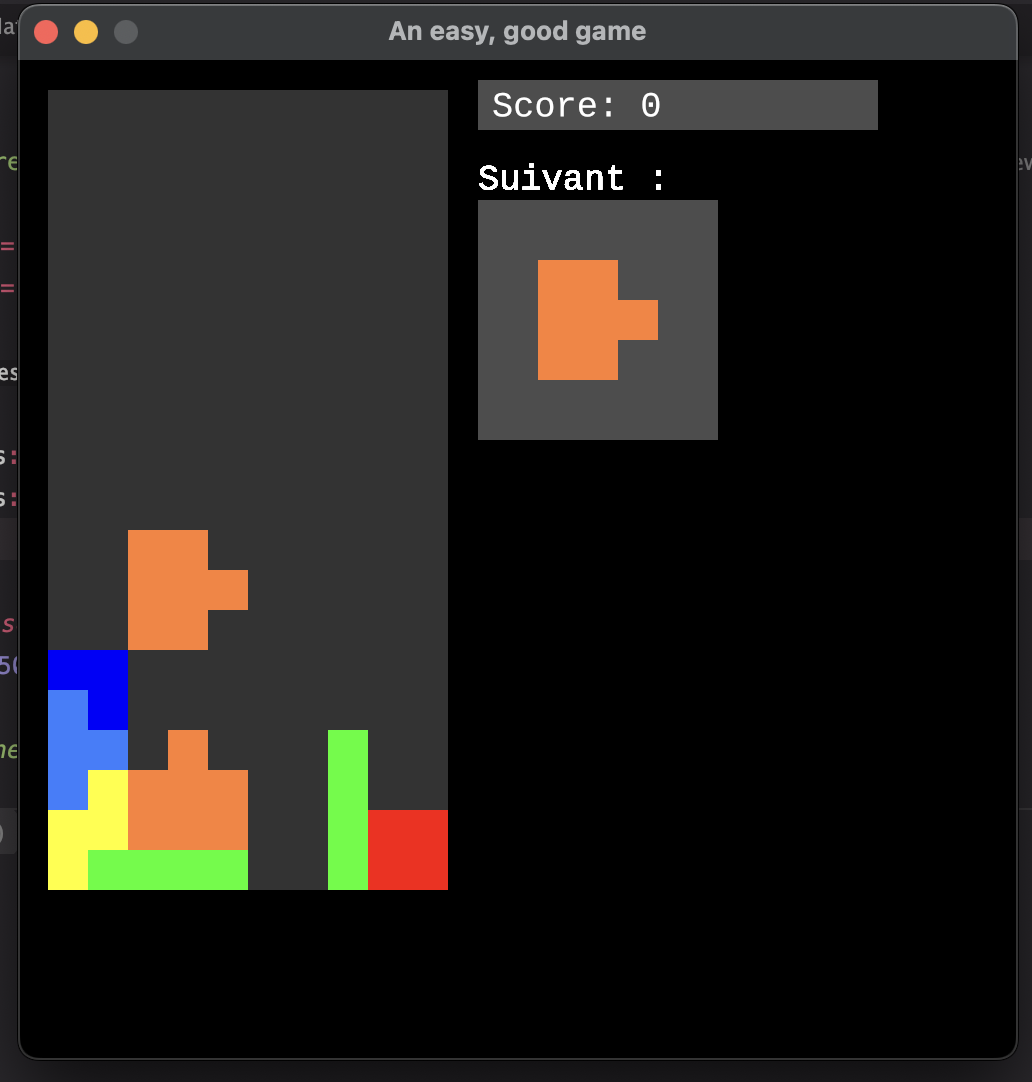
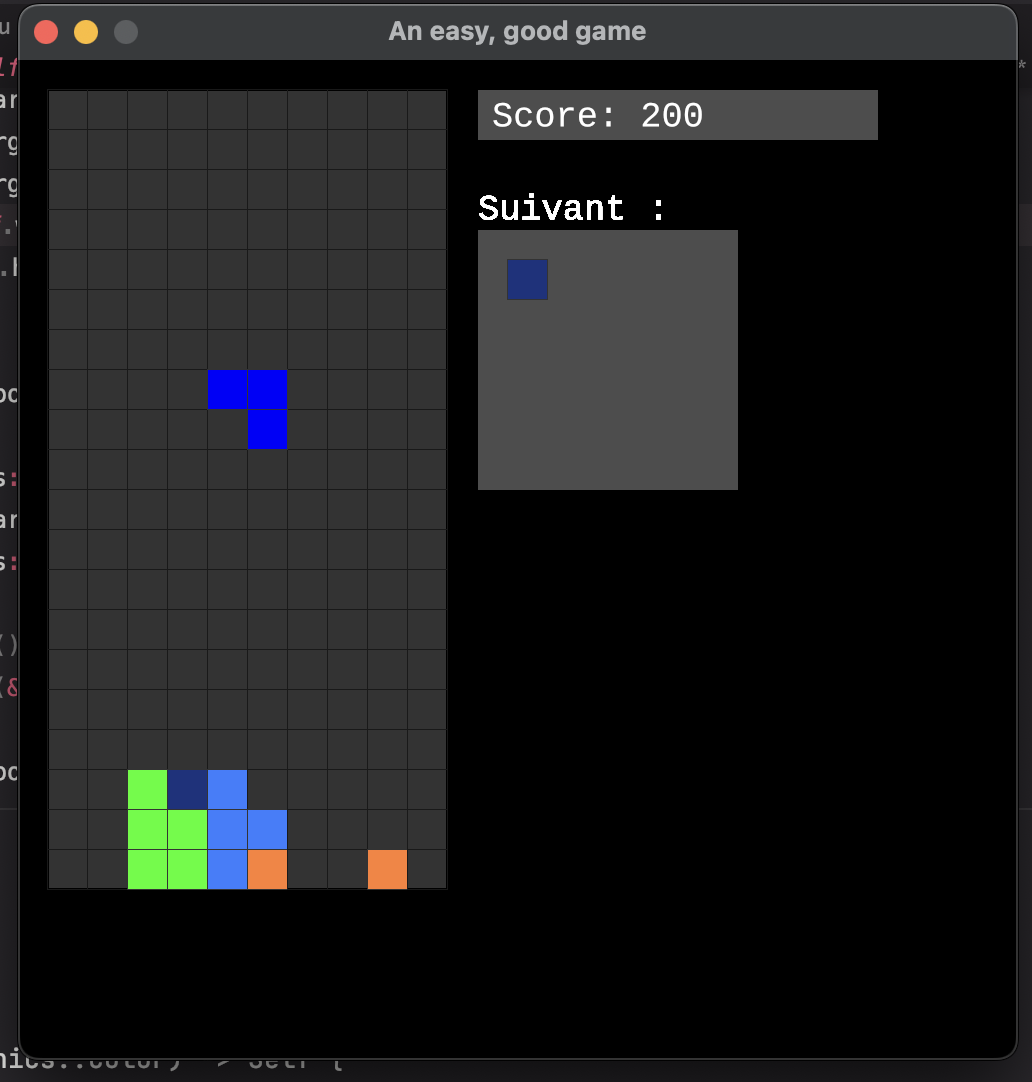
🏁 Done

diff --git a/src/types/grid.rs b/src/types/grid.rs
@@ -76,35 +76,69 @@ impl Grid {
     }
 
     pub fn draw(&self, canvas: &mut graphics::Canvas, ctx: &mut ggez::Context) {
-        let border = graphics::Mesh::new_rectangle(
+
+        let rect_board = graphics::Rect::new(
+            self.margin,
+            self.margin,
+            self.width as f32 * self.weight,
+            self.height as f32 * self.weight
+        );
+
+        let filled_board = graphics::Mesh::new_rectangle(
             ctx,
             graphics::DrawMode::fill(),
-            graphics::Rect::new(
-                self.margin,
-                self.margin,
-                self.width as f32 * self.weight,
-                self.height as f32 * self.weight
-            ),
+            rect_board,
             graphics::Color::new(0.2, 0.2, 0.2, 1.0),
         )
             .unwrap();
-        canvas.draw(&border, graphics::DrawParam::default());
+        canvas.draw(&filled_board, graphics::DrawParam::default());
+
+        let border_board = graphics::Mesh::new_rectangle(
+            ctx,
+            graphics::DrawMode::stroke(3.0),
+            rect_board,
+            graphics::Color::new(0.0, 0.0, 0.0, 1.0),
+        )
+            .unwrap();
+        canvas.draw(&border_board, graphics::DrawParam::default());
 
         for (y, row) in self.cells.iter().enumerate() {
             for (x, cell) in row.iter().enumerate() {
+                let rect = graphics::Rect::new(
+                    x as f32 * self.weight + self.margin,
+                    y as f32 * self.weight + self.margin,
+                    self.weight,
+                    self.weight,
+                );
+
                 if let Some(color) = cell {
-                    let mesh = graphics::Mesh::new_rectangle(
+                    let filled_mesh = graphics::Mesh::new_rectangle(
                         ctx,
                         graphics::DrawMode::fill(),
-                        graphics::Rect::new(x as f32 * self.weight + self.margin,
-                                            y as f32 * self.weight + self.margin,
-                                            self.weight,
-                                            self.weight
-                        ),
+                        rect,
                         *color,
                     )
                         .unwrap();
-                    canvas.draw(&mesh, graphics::DrawParam::default());
+                    canvas.draw(&filled_mesh, graphics::DrawParam::default());
+
+                    let border_mesh = graphics::Mesh::new_rectangle(
+                        ctx,
+                        graphics::DrawMode::stroke(1.0),
+                        rect,
+                        graphics::Color::new(0.2, 0.2, 0.2, 1.0),
+                    )
+                        .unwrap();
+                    canvas.draw(&border_mesh, graphics::DrawParam::default());
+                }else {
+
+                    let border_mesh = graphics::Mesh::new_rectangle(
+                        ctx,
+                        graphics::DrawMode::stroke(1.0),
+                        rect,
+                        graphics::Color::new(0.1, 0.1, 0.1, 1.0),
+                    )
+                        .unwrap();
+                    canvas.draw(&border_mesh, graphics::DrawParam::default());
                 }
             }
         }

diff --git a/src/types/game.rs b/src/types/game.rs
@@ -1,7 +1,7 @@
 use ggez::event::EventHandler;
 use std::time::{Duration, Instant};
 use ggez::{graphics, Context, GameError, GameResult};
-use ggez::graphics::{Color, DrawParam, Text, TextFragment, PxScale, FontData};
+use ggez::graphics::{Color, DrawParam, Text, TextFragment, PxScale};
 use ggez::input::keyboard::KeyInput;
 use rand::Rng;
 use crate::types::grid::Grid;
@@ -42,7 +42,7 @@ impl GameState{
 
     fn draw_next_block(&self, canvas: &mut graphics::Canvas, _ctx: &mut ggez::Context) {
         let index_x = self.grid.width as f32 * self.grid.weight + (self.grid.margin * 2.0);
-        let mut index_y = 100.0;
+        let mut index_y = self.grid.margin + 100.0;
 
         let text_fragment = TextFragment {
             text: "Suivant :".to_string(),
@@ -65,8 +65,8 @@ impl GameState{
             graphics::Rect::new(
                 index_x,
                 index_y,
-                6.0 * self.grid.weight,
-                6.0 * self.grid.weight,
+                5.0 * self.grid.weight + self.grid.margin * 2.0,
+                5.0 * self.grid.weight  + self.grid.margin * 2.0,
             ),
             Color::new(0.3, 0.3, 0.3, 1.0),
         ).unwrap();
@@ -77,25 +77,36 @@ impl GameState{
             let n_col = *d_col as f32;
             let n_row = *d_row as f32;
 
-            let mesh = graphics::Mesh::new_rectangle(
-                    _ctx,
-                    graphics::DrawMode::fill(),
-                    graphics::Rect::new(
-                        index_x + n_col * self.grid.weight + self.grid.margin * 2.0,
-                        index_y + n_row * self.grid.weight + self.grid.margin * 2.0,
-                        self.grid.weight,
-                        self.grid.weight,
-                    ),
-                    self.next_block.shape.color,
+            let rect = graphics::Rect::new(
+                n_col * self.grid.weight + (self.grid.margin * 3.0) + self.grid.width as f32 * self.grid.weight,
+                n_row * self.grid.weight + index_y + self.grid.margin,
+                self.grid.weight,
+                self.grid.weight,
+            );
+
+            let filled_mesh = graphics::Mesh::new_rectangle(
+                _ctx,
+                graphics::DrawMode::fill(),
+                rect,
+                self.next_block.shape.color,
             ).unwrap();
-            canvas.draw(&mesh, graphics::DrawParam::default());
+            canvas.draw(&filled_mesh, graphics::DrawParam::default());
+
+            let border_mesh = graphics::Mesh::new_rectangle(
+                _ctx,
+                graphics::DrawMode::stroke(1.0),
+                rect,
+                graphics::Color::new(0.2, 0.2, 0.2, 1.0),
+            )
+                .unwrap();
+            canvas.draw(&border_mesh, graphics::DrawParam::default());
         }
     }
 
     fn draw_score(&self, canvas: &mut graphics::Canvas, _ctx: &mut ggez::Context) {
 
         let x = self.grid.weight * self.grid.width as f32 + self.grid.margin * 2.0;
-        let y =  20.0;
+        let y =  self.grid.margin;
 
         let rect = graphics::Mesh::new_rectangle(
             _ctx,

diff --git a/src/types/shapes.rs b/src/types/shapes.rs
@@ -20,21 +20,30 @@ impl Block {
             let n_col = self.col + d_col;
             let n_row = self.row + d_row;
 
-            if n_col >= 0 && n_col < 10 && n_row >= 0 && n_row < 20 {
-                let mesh = graphics::Mesh::new_rectangle(
-                    ctx,
-                    graphics::DrawMode::fill(),
-                    graphics::Rect::new(
-                        n_col as f32 * self.weight + self.margin,
-                        n_row as f32 * self.weight + self.margin,
-                        self.weight,
-                        self.weight,
-                    ),
-                    self.shape.color,
-                )
+            let rect = graphics::Rect::new(
+                n_col as f32 * self.weight + self.margin,
+                n_row as f32 * self.weight + self.margin,
+                self.weight,
+                self.weight,
+            );
+
+            let filled_mesh = graphics::Mesh::new_rectangle(
+                ctx,
+                graphics::DrawMode::fill(),
+                rect,
+                self.shape.color,
+            ).unwrap();
+
+            canvas.draw(&filled_mesh, graphics::DrawParam::default());
+
+            let border_mesh = graphics::Mesh::new_rectangle(
+                ctx,
+                graphics::DrawMode::stroke(1.0),
+                rect,
+                graphics::Color::new(0.2, 0.2, 0.2, 1.0),
+            )
                 .unwrap();
-                canvas.draw(&mesh, graphics::DrawParam::default());
-            }
+            canvas.draw(&border_mesh, graphics::DrawParam::default());
         }
     }
 }

diff --git a/src/types/static_shape.rs b/src/types/static_shape.rs
@@ -37,4 +37,9 @@ pub static SLL: Lazy<Shape> = Lazy::new(|| Shape {
     color: graphics::Color::new(0.6, 0.1, 1.0, 1.0),
 });
 
-pub static SHAPES: Lazy<Vec<&'static Shape>> = Lazy::new(|| vec![&SCUBE, &SLINE, &SL, &SZ, &SE, &SBT, &SLL]);
+pub static SS: Lazy<Shape> = Lazy::new(|| Shape {
+    shape_position: vec![(0, 0)],
+    color: graphics::Color::new(0.1, 0.2, 0.5, 1.0),
+});
+
+pub static SHAPES: Lazy<Vec<&'static Shape>> = Lazy::new(|| vec![&SCUBE, &SLINE, &SL, &SZ, &SE, &SBT, &SLL, &SS]);
